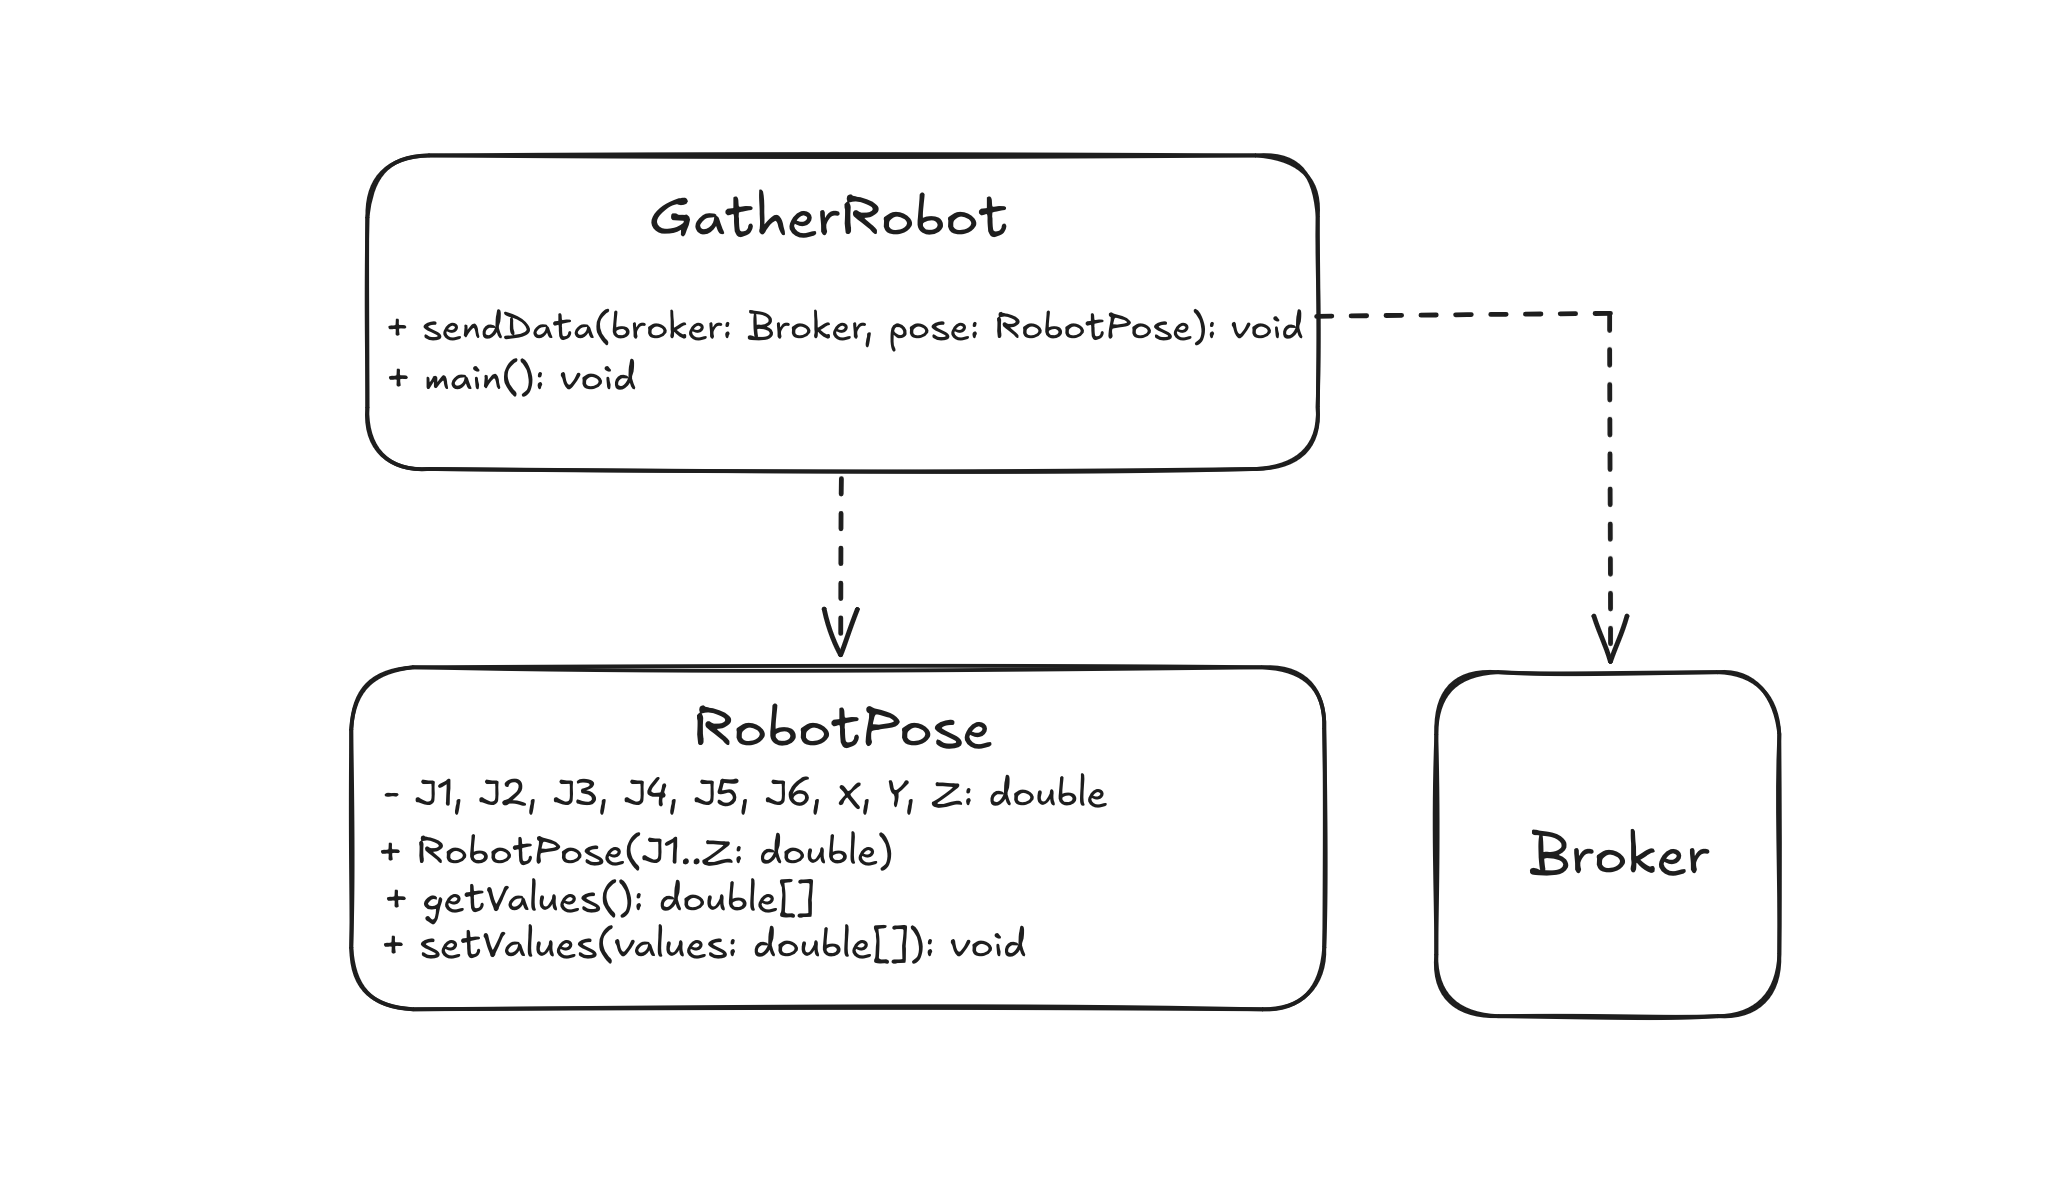
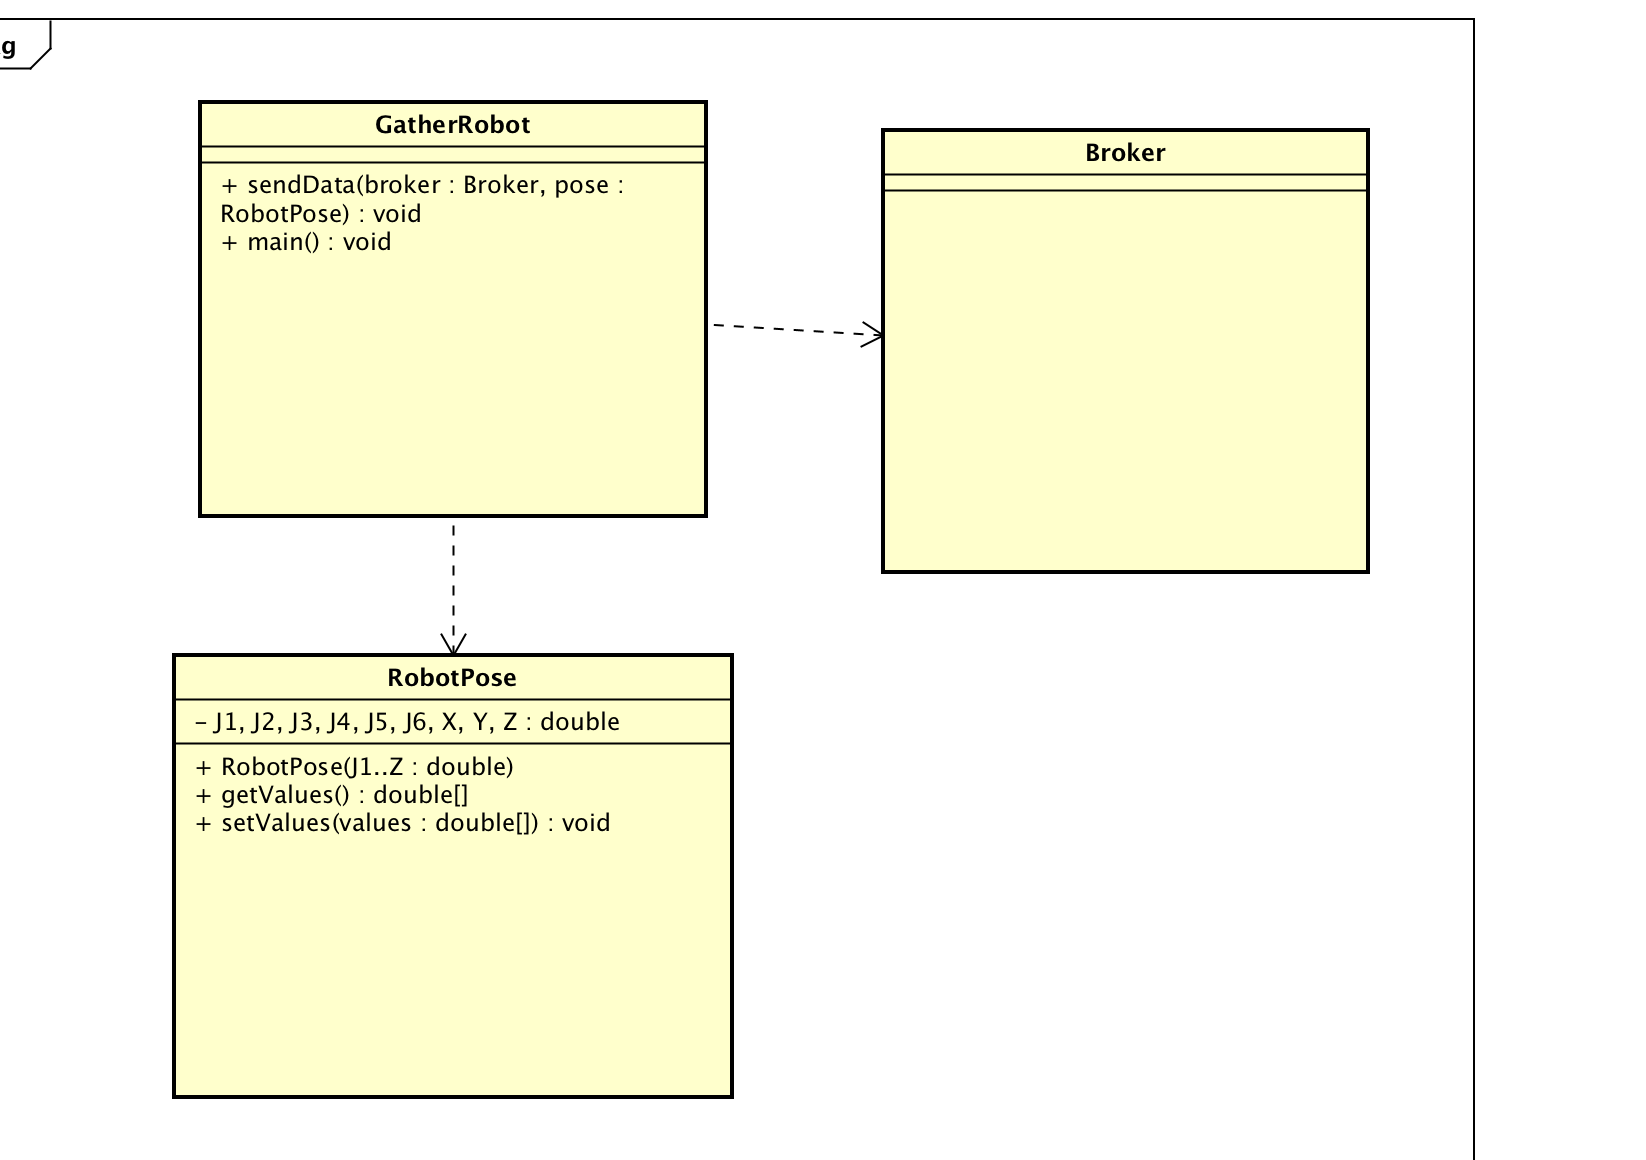
fix: changed uml and README

diff --git a/docs/13-gather-robot/README.md b/docs/13-gather-robot/README.md
@@ -1,10 +1,10 @@
-# main.java.edu.calpoly.GatherRobot
-### main.java.edu.calpoly.RobotPose
+# GatherRobot
+### RobotPose
 A robot can have six joint angles and a Cartesian position.
-This is all defined in a `main.java.edu.calpoly.RobotPose`, which is initialized with all of these values.
+This is all defined in a `RobotPose`, which is initialized with all of these values.
 These values can be set and retrieved with the `setValues` and `getValues` methods respectively.
 A `toString` method also exists which returns a `String` in the appropriate pose format.
 <br><br>
-### main.java.edu.calpoly.GatherRobot
-Inside of this class is one method, `main`, which first instantiates a `main.java.edu.calpoly.RobotPose`, and uses the mentioned methods to display the data inside of that pose.
+### GatherRobot
+Inside of this class is one method, `main`, which first instantiates a `RobotPose`, and uses the mentioned methods to display the data inside of that pose.
 Next, it uses a `Broker` to send the string representation to localhost:5000.
